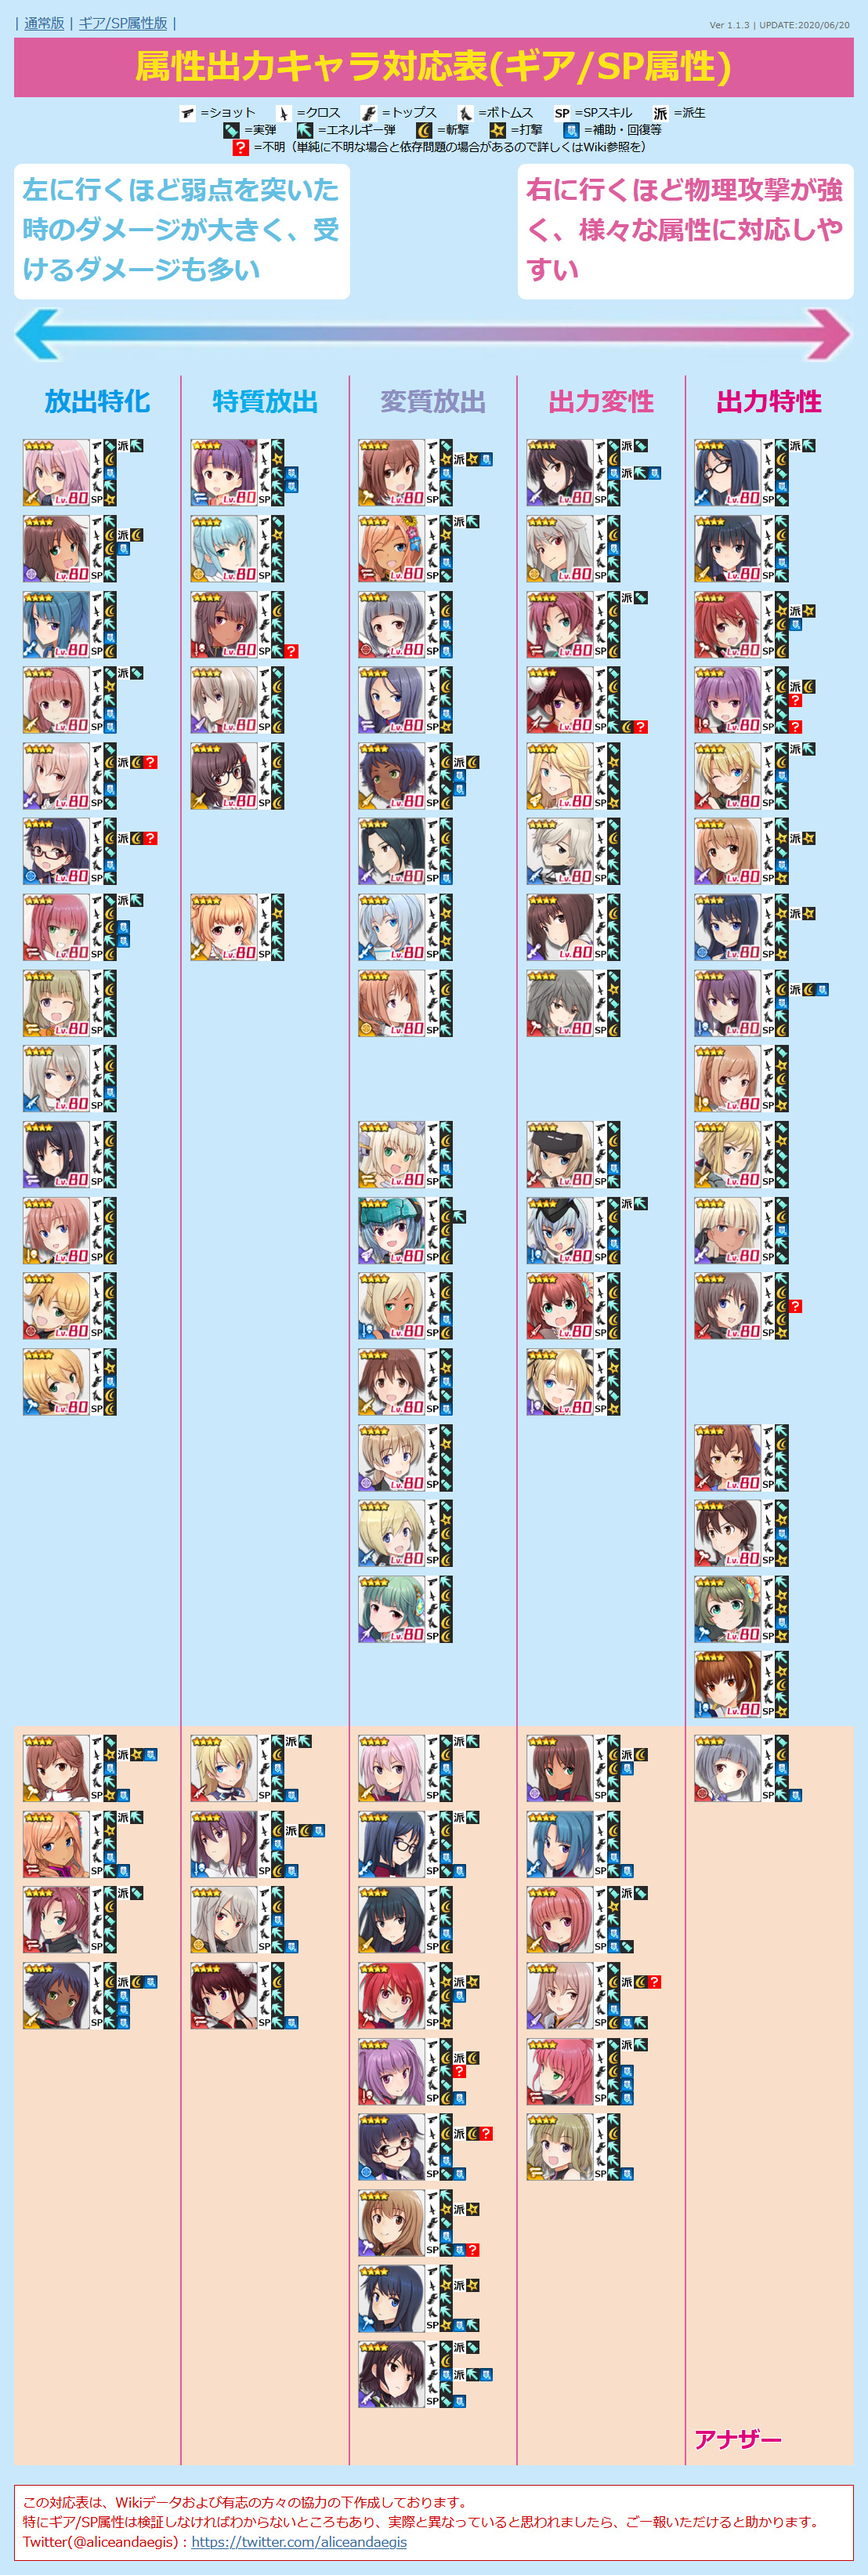
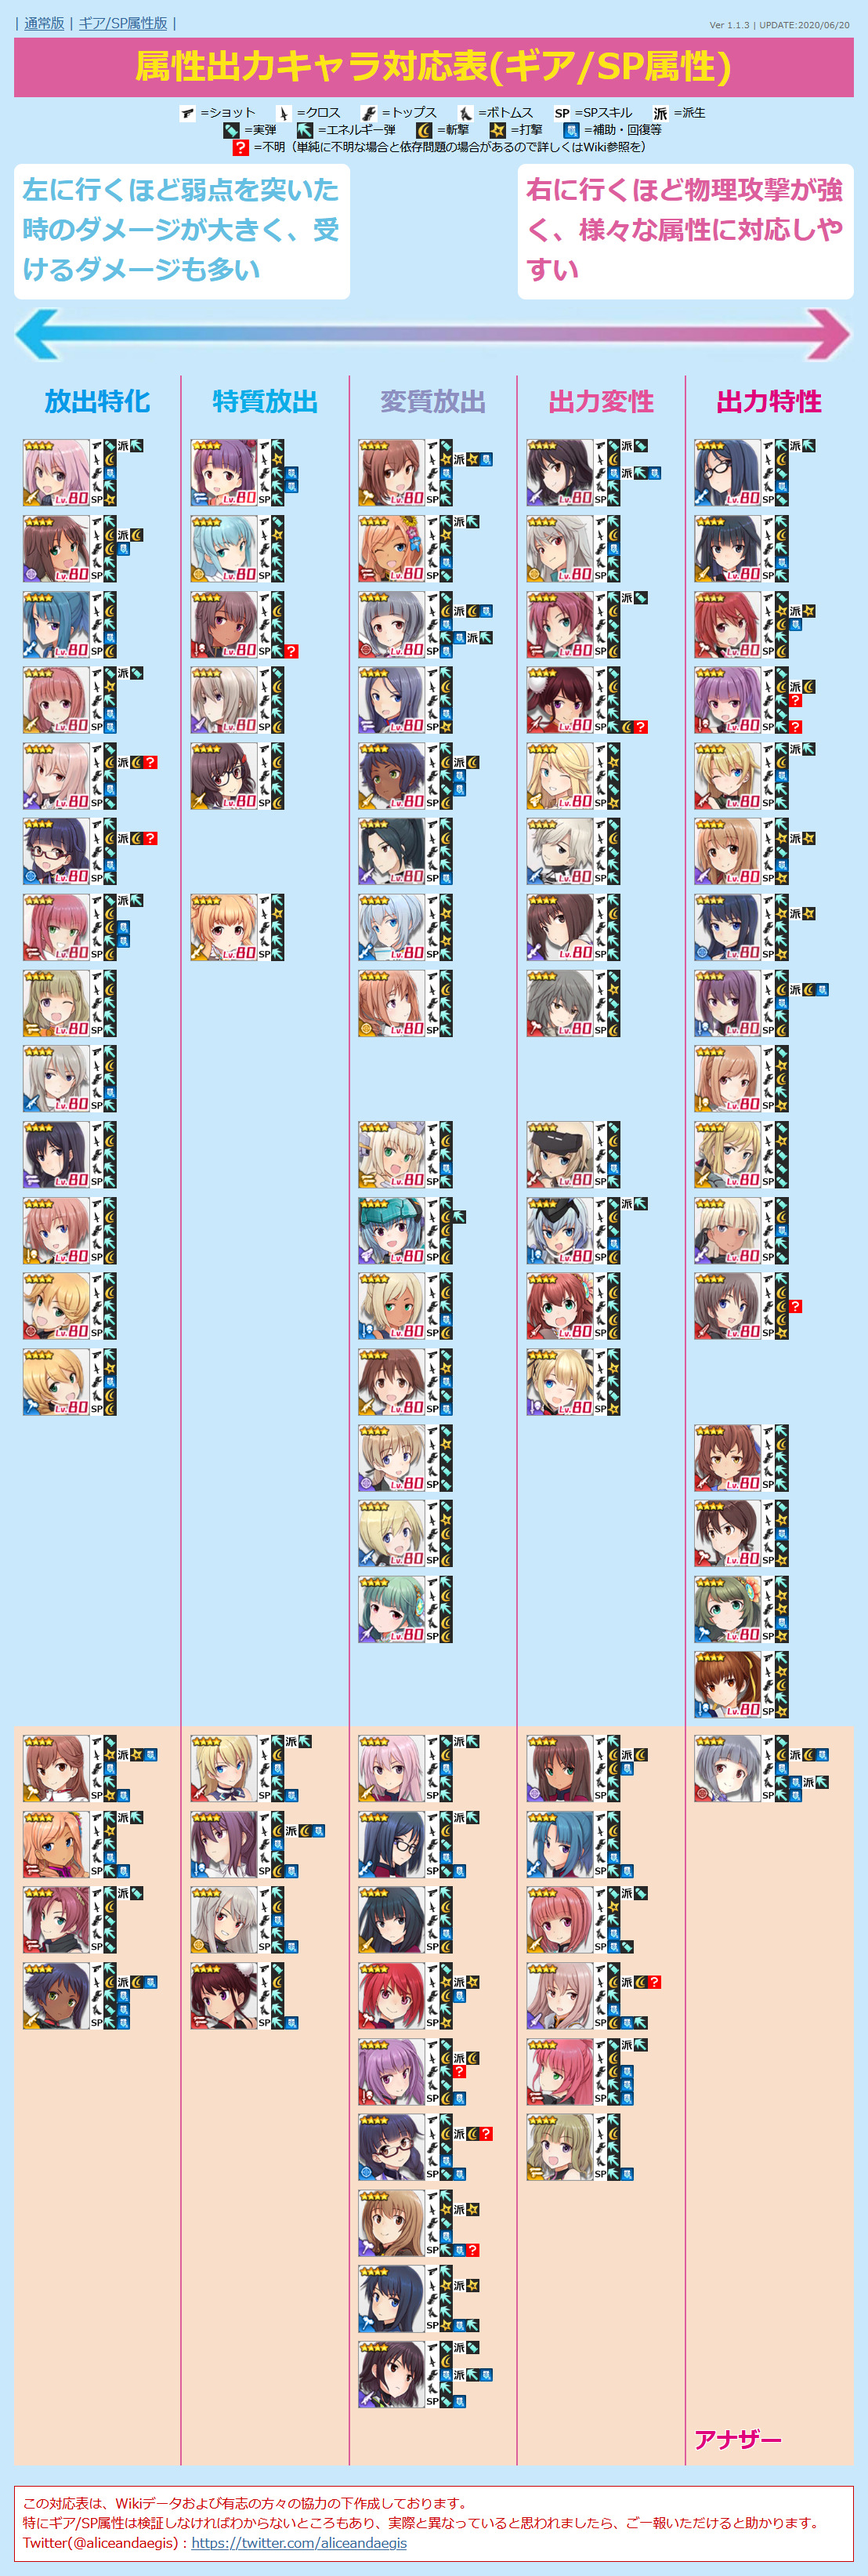
UPDATE chara data
明日翔に派生クロス追加
明日翔に派生ボトムス追加
明日翔の通常ボトムスに補助アイコン追加

diff --git a/alice.html b/alice.html
@@ -12,7 +12,7 @@
   <script>
 
 /* 更新情報 必要に応じて書き換えてください */
-  var version = "Ver 1.1.3 | UPDATE:2020/06/20";
+  var version = "Ver 1.1.3 | UPDATE:2020/06/23";
 
 /*
   jsonファイルを外部に設置すると単にHTMLファイルを開いたときに動作しなくなるので当面はHTMLファイル内に
@@ -531,9 +531,9 @@
       "src": "normal-asuka.png",
       "name": "文島 明日翔",
       "equip1": "1",
-      "equip2": "3",
+      "equip2": "3/35",
       "equip3": "5",
-      "equip4": "2",
+      "equip4": "25/2",
       "sp": "5",
       "attr": "3",
       "link": "https://wikiwiki.jp/alicegear/%E6%96%87%E5%B3%B6%E6%98%8E%E6%97%A5%E7%BF%94",
@@ -545,9 +545,9 @@
       "src": "another-asuka.png",
       "name": "文島 明日翔 / 福音",
       "equip1": "1",
-      "equip2": "3",
+      "equip2": "3/35",
       "equip3": "5",
-      "equip4": "2",
+      "equip4": "25/2",
       "sp": "25",
       "attr": "3",
       "link": "https://wikiwiki.jp/alicegear/%E6%96%87%E5%B3%B6%E6%98%8E%E6%97%A5%E7%BF%94%E7%A6%8F%E9%9F%B3",
